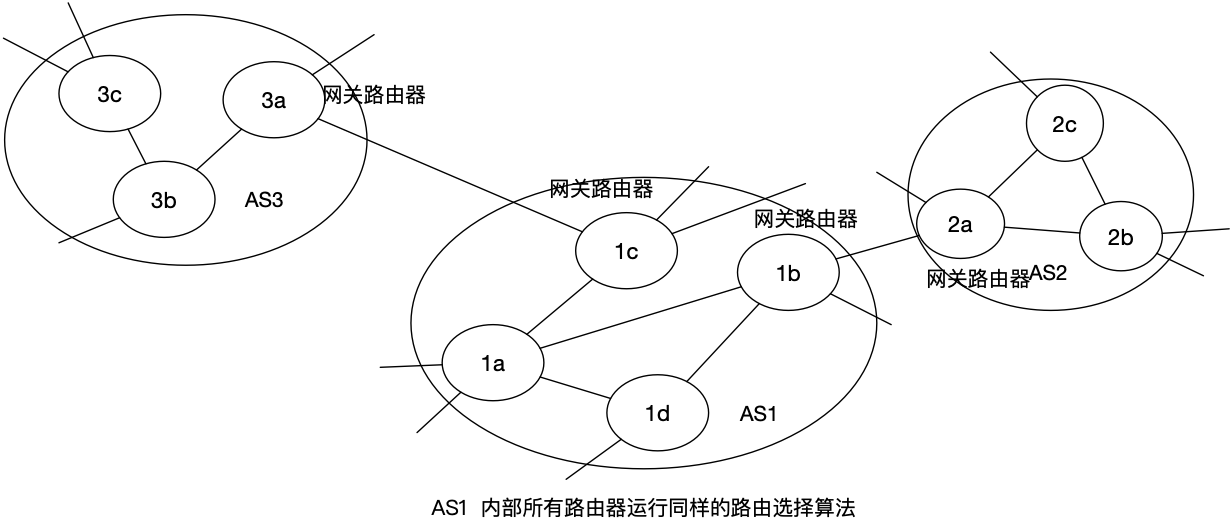
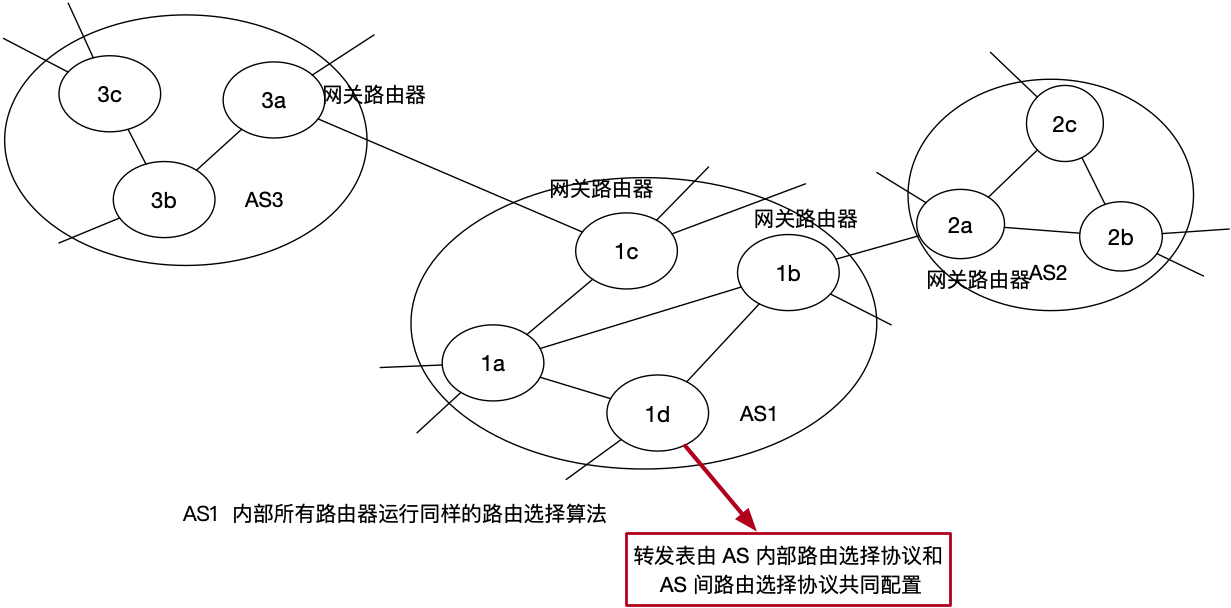
网络层 note

diff --git a/04 网络层/note.md b/04 网络层/note.md
@@ -239,9 +239,17 @@
 			
 			* **管理自洽**  某公司想要按照自己的意愿运行路由器，比如使用自己的路由选择算法，或者对外隐藏其网络的内部组织面貌。
 			
-		* 上述两个问题通过将路由器组织进 **自洽系统 AS** 来解决，每个 **AS** 内部的所有路由器运行同样的路由选择算法，在一个 **AS** 内运行的路由选择算法叫做 **自洽系统内部路由选择协议**。**AS** 之间也需要互联，在 **AS** 内部负责的一台或多台路由器，负责向 **AS** 外部转发分组，这些路由器叫做 **网关路由器**。
+		* 上述两个问题通过将路由器组织进 **自洽系统 AS** 来解决，每个 **AS** 内部的所有路由器运行同样的路由选择算法，在一个 **AS** 内运行的路由选择算法叫做 **自洽系统内部路由选择协议**。**AS** 之间也需要互联，在 **AS** 内部负责的一台或多台路由器，负责向 **AS** 外部转发分组，这些路由器叫做 **网关路由器**。那么 **AS** 内部的路由器如何将分组路由选择到位于 **AS** 外部的目的地呢？**AS** 可能有一个或多个网关，如果只有一个网关，那么显然只需要将分组路由到唯一网关处，如果有多个网关，那么该 **AS** 需要:
+			* 1、知道经过相邻的 **AS** 可达哪些目的地。
+			* 2、向 **AS** 内部的所有路由器传播这些可达信息以便它们能配置自己的路由表。
+	  * 【**从相邻 AS 获取可达性信息**】和 【**向该 AS 中所有路由器传播可达性信息**】这两项任务由 **自洽系统间路由选择协议** 处理。因特网中所有 **AS** 都运行相同的 **AS 间路由选择协议**，该协议称为 **BGP4**。每台路由器接受来自一个 **AS 内部路由选择协议** 和一个 **AS 间路由选择协议** 的信息来配置自己的转发表。
 		
 	   * ![](https://github.com/YangXiaoHei/Networking/blob/master/04%20网络层/images/AS.png)
+	   
+	   * 下面总结了路由器对转发表增加一个表项所采取的动作
+	   
+	   	 
+		
 		
 				
 			
